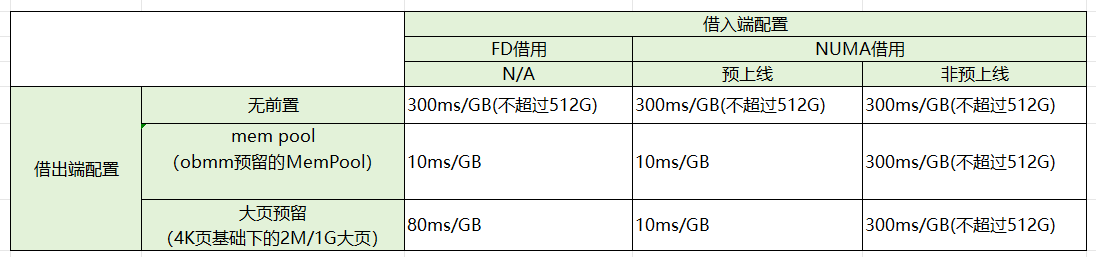
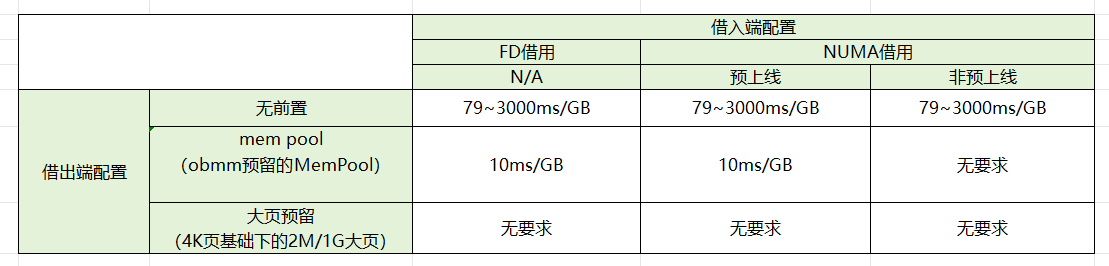
fix: update 内存池化借用性能规格设计.md

diff --git a/src/framework/http/ubse_http_module.cpp b/src/framework/http/ubse_http_module.cpp
@@ -57,7 +57,7 @@ UbseResult UbseHttpModule::Initialize()
     } else {
         isTcpServer = true;
         if (!UbseNetUtil::IsPortVaLid(port_)) {
-            UBSE_LOG_ERROR << "ubse.server.port=" << port_
+            UBSE_LOG_ERROR << "ubm.server.port=" << port_
                            << " is out of range[1024, 65535], will use default value: " << DEFAULT_UBM_SERVER_PORT;
             port = DEFAULT_UBM_SERVER_PORT;
         } else {

diff --git a/docs/design/内存池化借用性能规格设计.md b/docs/design/内存池化借用性能规格设计.md
@@ -3,14 +3,19 @@
 借出端: 内存池化借用能力中提供远端内存的节点
 FD借用:  内存池化借用的一种类型，借用完成会在借入方形成句柄文件，通过mmap打开句柄文件即可使用远端内存
 NUMA借用: 内存池化借用的一种类型，借用完成会在借入方形成一个远端NUMA节点，通过操作系统的NUMA接口即可使用远端内存
-OBMM: Open Memory Management Module，执行内存借出、借入的模块。在借出端负责执行内存导出，在借入端负责执行内存导入形成FD或者NUMA。
+[OBMM](https://atomgit.com/openeuler/obmm): 执行内存借出、借入的模块。在借出端负责执行内存导出，在借入端负责执行内存导入形成FD或者NUMA。
 MemPool: OBMM中用于内存导出加速的内存池，OBMM优先从池中导出内存，内存池无空余内存，OBMM会从常规内存中导出内存，此时性能较差
 预上线：加速NUMA借用上线速度的一种机制。该机制通过提前分配和形成远端NUMA并绑定物理地址空间，在真实借用发生时，只需要将远端内存和物理地址进行绑定即可，达到加速的目的。
 
 ## 2 借用性能说明
 ![借用速率规则表](../images/img-ubse-borrow-rate.png)
+> 注: 
+要求1：确保ubse的配置为 `obmm.memory.block.size=1024`；
+要求2：确保printk日志级别为4。在借入端和借出端执行 `echo 4 4 1 7 > /proc/sys/kernel/printk`进行设置；
+要求3：确保MemPool的大小满足`mempool_size / 本地NUMA数 > 单次借用内存大小`
 
 ## 3 配置说明
 - 配置预上线能力请参考ubse[《配置说明》](../config/配置说明.md)
+- 配置`obmm.memory.block.size`请参考ubse[《配置说明》](../config/配置说明.md)
 - 配置2M/1G大页请参考OS能力
 - 配置MemPool请参考[OBMM组件相关说明](https://atomgit.com/openeuler/obmm/blob/master/doc/obmm.md)